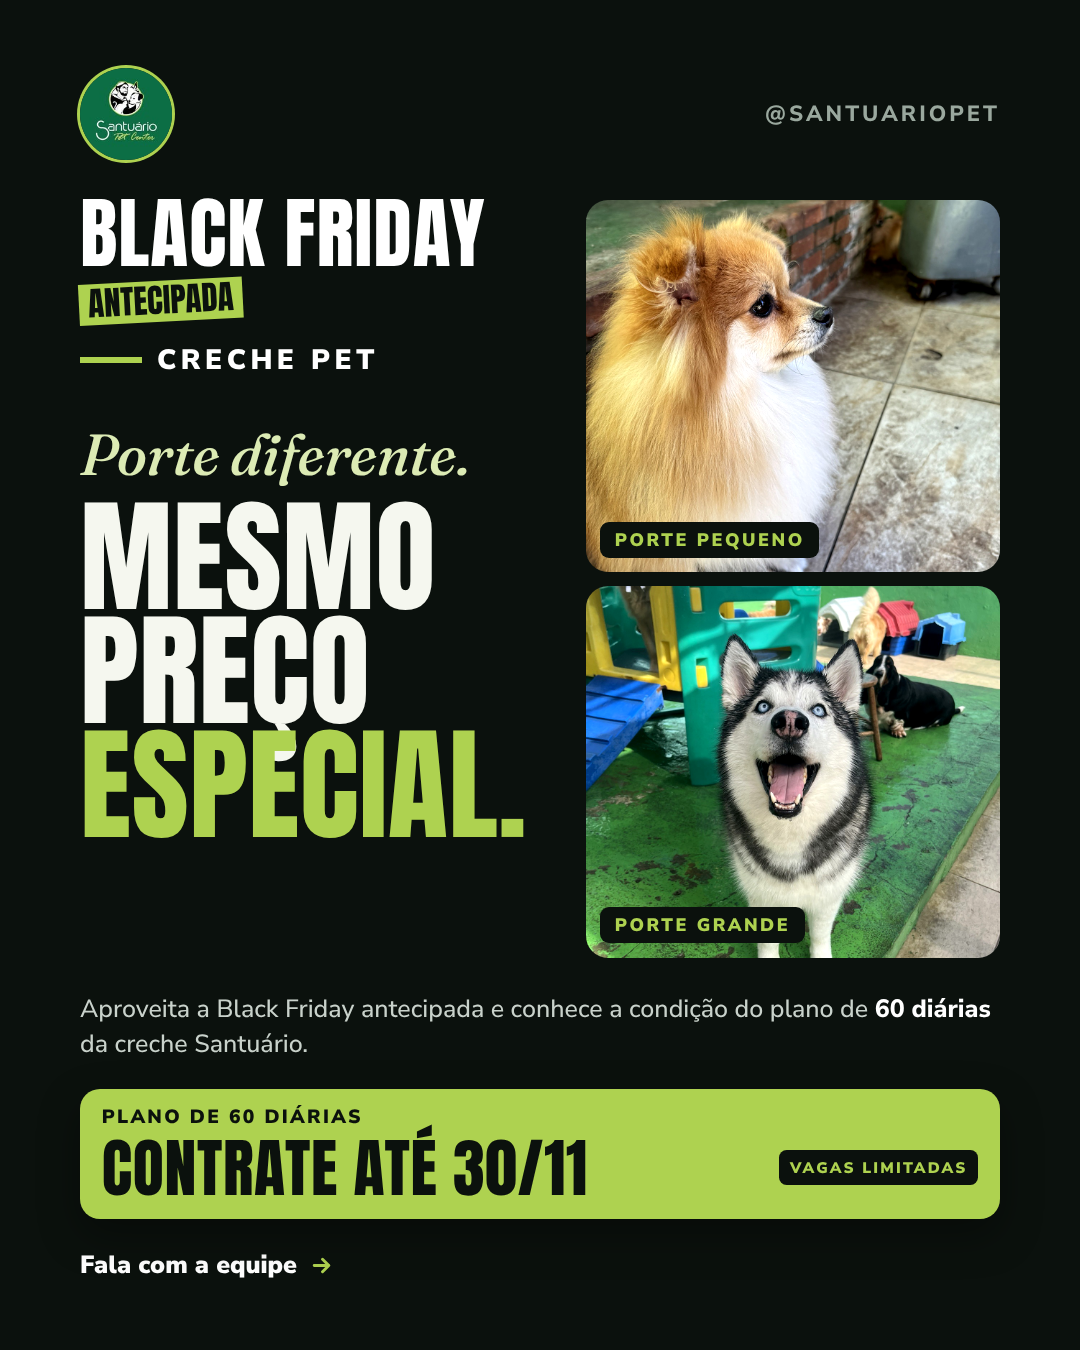
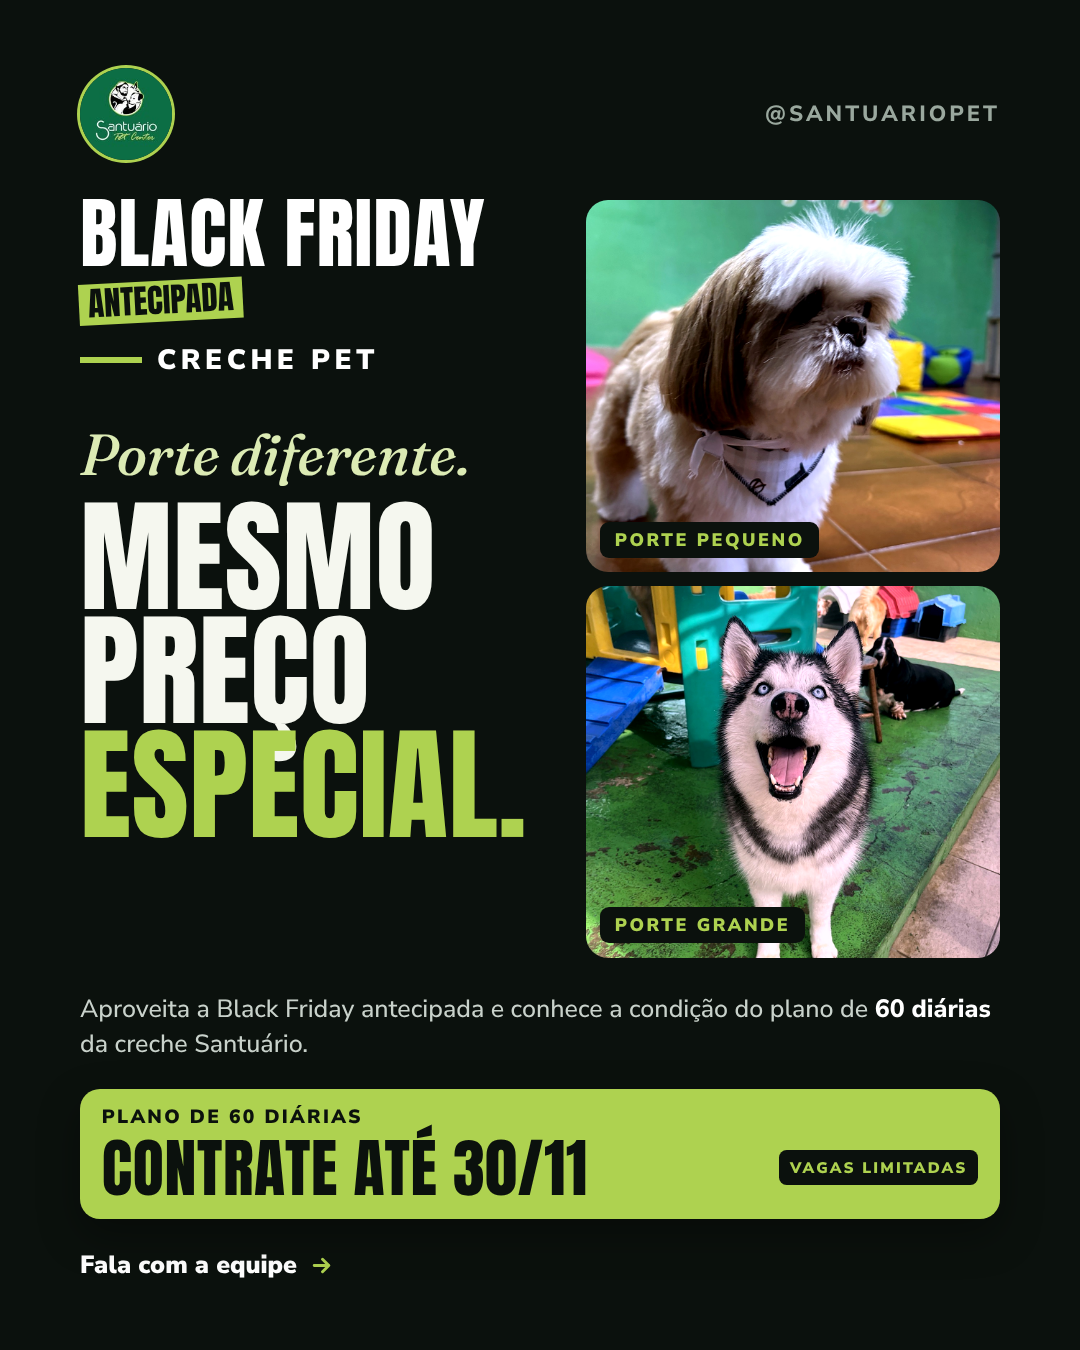
Santuário Pet: novas fotos de banho, fotos tratadas e cards verticais sem cortes
Claude-Session: https://claude.ai/code/session_01Gs9A9MNex2dmEc6dmLnRAu

Changed region(s): [[0.5194, 0.1244, 0.9472, 0.7156]]

diff --git a/santuario-pet/gerar_black_antecipada.py b/santuario-pet/gerar_black_antecipada.py
@@ -212,7 +212,7 @@ def dupla(gap, raio, fs):
         return (f'<div style="flex:1;position:relative;display:flex">{ph(nome, pos, f"flex:1;border-radius:{raio}px")}'
                 f'<span class="porte" style="font-size:{fs}px">{rot}</span></div>')
     return (f'<div class="row" style="gap:{gap}px;flex:1;min-height:0">'
-            + um('creche-pequeno', '45% 45%', 'Porte pequeno') + um('creche-grande', '50% 40%', 'Porte grande') + '</div>')
+            + um('creche-pequeno', '30% 55%', 'Porte pequeno') + um('creche-grande', '50% 50%', 'Porte grande') + '</div>')
 
 
 def creche3(f):
@@ -242,7 +242,7 @@ def banho1(f):
     if f == "story":
         return page(1920, f"""{topo(90)}{bf(86, 40)}
   <div class="row" style="gap:40px;margin-top:50px;align-items:flex-end">
-    {ph('banho-shihtzu-bandana', '50% 50%', 'width:450px;height:600px;flex:none;' + card)}
+    {ph('banho-lulu-toalha', '50% 12%', 'width:470px;height:640px;flex:none;' + card)}
     <div style="flex:1;padding-bottom:6px">
       <div class="ser it" style="font-size:60px;color:var(--gl);line-height:1.05">Vocês<br>pediram.</div>
     </div>
@@ -259,7 +259,7 @@ def banho1(f):
       <div class="imp lime" style="font-size:150px;margin-top:6px;line-height:.92">Ele<br>voltou.</div>
       <div class="ser" style="font-size:30px;font-weight:500;line-height:1.25;margin-top:28px">O plano de <b style="font-weight:700;color:var(--lime)">12 banhos</b> está de volta na Black Friday antecipada da Santuário Pet!</div>
     </div>
-    <div style="display:flex;align-items:center;padding-right:16px">{ph('banho-shihtzu-bandana', '50% 50%', 'width:390px;height:520px;' + card)}</div>
+    <div style="display:flex;align-items:center;padding-right:16px">{ph('banho-lulu-toalha', '50% 10%', 'width:390px;height:540px;' + card)}</div>
   </div>
   {cta('Conheça a oferta', 25)}""", FP)
 
@@ -269,7 +269,7 @@ def banho2(f):
         return page(1920, f"""{topo(90)}{bf(86, 40)}
   <div class="row" style="gap:28px;margin-top:52px;height:620px">
     <div class="imp lime" style="font-size:640px;line-height:.78;letter-spacing:-14px">12</div>
-    {ph('banho-toalha', '50% 30%', 'flex:1;border-radius:24px')}
+    {ph('banho-golden-lingua', '45% 40%', 'flex:1;border-radius:24px')}
   </div>
   <div class="imp" style="font-size:190px;margin-top:26px">Banhos</div>
   <div class="ser it" style="font-size:58px;color:var(--gl);margin-top:18px">Uma condição imperdível.</div>
@@ -277,44 +277,52 @@ def banho2(f):
   <div style="flex:1"></div>
   {tape('Black Friday antecipada • Até 30/11', 38, 0, 40)}
   {cta('Consulte os valores', 30)}""", SP)
-    return page(1350, f"""<div class="row" style="flex:1;gap:40px">
-    <div style="width:560px;display:flex;flex-direction:column">
-      {topo(92)}{bf(80, 30)}
-      <div class="imp lime" style="font-size:470px;line-height:.78;letter-spacing:-10px;margin-top:52px">12</div>
-      <div class="imp" style="font-size:150px;margin-top:13px">Banhos</div>
-      <div class="ser it" style="font-size:46px;color:var(--gl);margin-top:16px">Uma condição imperdível.</div>
-      <div class="sup" style="font-size:24px;margin-top:18px">Planeja os banhos do teu pet com uma condição especial de Black Friday.</div>
-      <div style="flex:1"></div>{cta('Consulte os valores', 25)}
+    return page(1350, f"""{topo(92)}
+  <div class="row" style="flex:1;gap:44px;margin-top:30px">
+    <div style="flex:1;display:flex;flex-direction:column">
+      {bf(76)}
+      <div class="imp lime" style="font-size:400px;line-height:.78;letter-spacing:-10px;margin-top:44px">12</div>
+      <div class="imp" style="font-size:138px;margin-top:14px">Banhos</div>
+      <div class="ser it" style="font-size:42px;color:var(--gl);margin-top:14px">Uma condição imperdível.</div>
     </div>
-    {ph('banho-toalha', '50% 40%', 'flex:1;margin:-68px -80px -68px 0', '<div class="fade-l" style="width:100px"></div>')}
-  </div>{faixa('Black Friday antecipada • Até 30/11', 150)}""", FP)
+    <div style="display:flex;align-items:center;padding-right:14px">{ph('banho-golden-lingua', '45% 45%', 'width:420px;height:600px;border-radius:26px;box-shadow:14px 14px 0 var(--lime)')}</div>
+  </div>
+  <div class="sup" style="font-size:25px;margin-top:26px">Planeja os banhos do teu pet com uma condição especial de Black Friday.</div>
+  {cta('Consulte os valores', 25)}""", FP)
 
 
 def banho3(f):
+    card = "border-radius:26px;box-shadow:14px 14px 0 var(--lime)"
     if f == "story":
         return page(1920, f"""{topo(90)}{bf(86, 40)}
-  <div class="imp" style="font-size:72px;margin-top:40px;line-height:1.08"><span class="strike">Não são 4.</span><br><span class="strike">Não são 8.</span></div>
-  <div class="row" style="align-items:flex-end;gap:26px;margin-top:29px">
-    <div class="imp" style="font-size:92px;padding-bottom:8px">São</div>
-    <div class="imp lime" style="font-size:250px;line-height:.78;letter-spacing:-8px">12</div>
-  </div>
-  <div class="imp" style="font-size:92px;margin-top:14px">banhos!</div>
-  {ph('banho-golden', '50% 30%', 'flex:1;margin:26px -92px 0;min-height:470px', '<div class="fade-t" style="height:80px"></div><div class="fade-b" style="height:70px"></div>')}
-  {tape('Somente até 30/11', 40, -50)}
-  <div class="sup" style="font-size:29px;margin-top:52px">O plano tão pedido voltou com condições especiais na Black Friday Santuário.</div>
-  {cta('Chama no WhatsApp', 30, 22)}""", SP)
-    return page(1350, f"""{ph('banho-golden', '50% 45%', 'position:absolute;right:0;top:0;width:420px;height:1350px', '<div class="fade-l" style="width:180px"></div>')}
-  <div style="position:relative;z-index:3;width:680px;display:flex;flex-direction:column;height:100%">
-    {topo(92)}{bf(80, 30)}
-    <div class="imp" style="font-size:118px;margin-top:52px;line-height:1"><span class="strike">Não são 4.</span><br><span class="strike">Não são 8.</span></div>
-    <div class="row" style="align-items:flex-end;gap:20px;margin-top:21px">
-      <div class="imp" style="font-size:112px;padding-bottom:10px">São</div>
-      <div class="imp lime" style="font-size:330px;line-height:.78;letter-spacing:-8px">12</div>
+  <div class="row" style="gap:36px;margin-top:50px;align-items:center">
+    <div style="flex:1">
+      <div class="imp" style="font-size:78px;line-height:1.08"><span class="strike">Não são 4.</span><br><span class="strike">Não são 8.</span></div>
+      <div class="row" style="align-items:flex-end;gap:20px;margin-top:22px">
+        <div class="imp" style="font-size:96px;padding-bottom:8px">São</div>
+        <div class="imp lime" style="font-size:300px;line-height:.78;letter-spacing:-8px">12</div>
+      </div>
+      <div class="imp" style="font-size:96px;margin-top:16px">banhos!</div>
     </div>
-    <div class="imp" style="font-size:112px;margin-top:13px">banhos!</div>
-    <div class="sup" style="font-size:24px;margin-top:23px;width:560px">O plano tão pedido voltou com condições especiais na Black Friday Santuário.</div>
-    <div style="flex:1"></div>{cta('Chama no WhatsApp', 25)}
-  </div>{faixa('Somente até 30/11', 150)}""", FP)
+    {ph('banho-golden-focinho', '50% 40%', 'width:480px;height:640px;flex:none;' + card)}
+  </div>
+  <div class="sup" style="font-size:30px;margin-top:64px">O plano tão pedido voltou com condições especiais na Black Friday Santuário.</div>
+  {cta('Chama no WhatsApp', 30)}""", SP)
+    return page(1350, f"""{topo(92)}
+  <div class="row" style="flex:1;gap:44px;margin-top:36px">
+    <div style="flex:1;display:flex;flex-direction:column">
+      {bf(76)}
+      <div class="imp" style="font-size:84px;margin-top:44px;line-height:1.06"><span class="strike">Não são 4.</span><br><span class="strike">Não são 8.</span></div>
+      <div class="row" style="align-items:flex-end;gap:18px;margin-top:40px">
+        <div class="imp" style="font-size:88px;padding-bottom:8px">São</div>
+        <div class="imp lime" style="font-size:310px;line-height:.78;letter-spacing:-8px">12</div>
+      </div>
+      <div class="imp" style="font-size:88px;margin-top:12px">banhos!</div>
+    </div>
+    <div style="display:flex;align-items:center;padding-right:14px">{ph('banho-golden-focinho', '50% 40%', 'width:430px;height:580px;' + card)}</div>
+  </div>
+  <div class="sup" style="font-size:25px;margin-top:30px">O plano tão pedido voltou com condições especiais na Black Friday Santuário.</div>
+  {cta('Chama no WhatsApp', 25)}""", FP)
 
 
 # ======================================================== HOTEL
